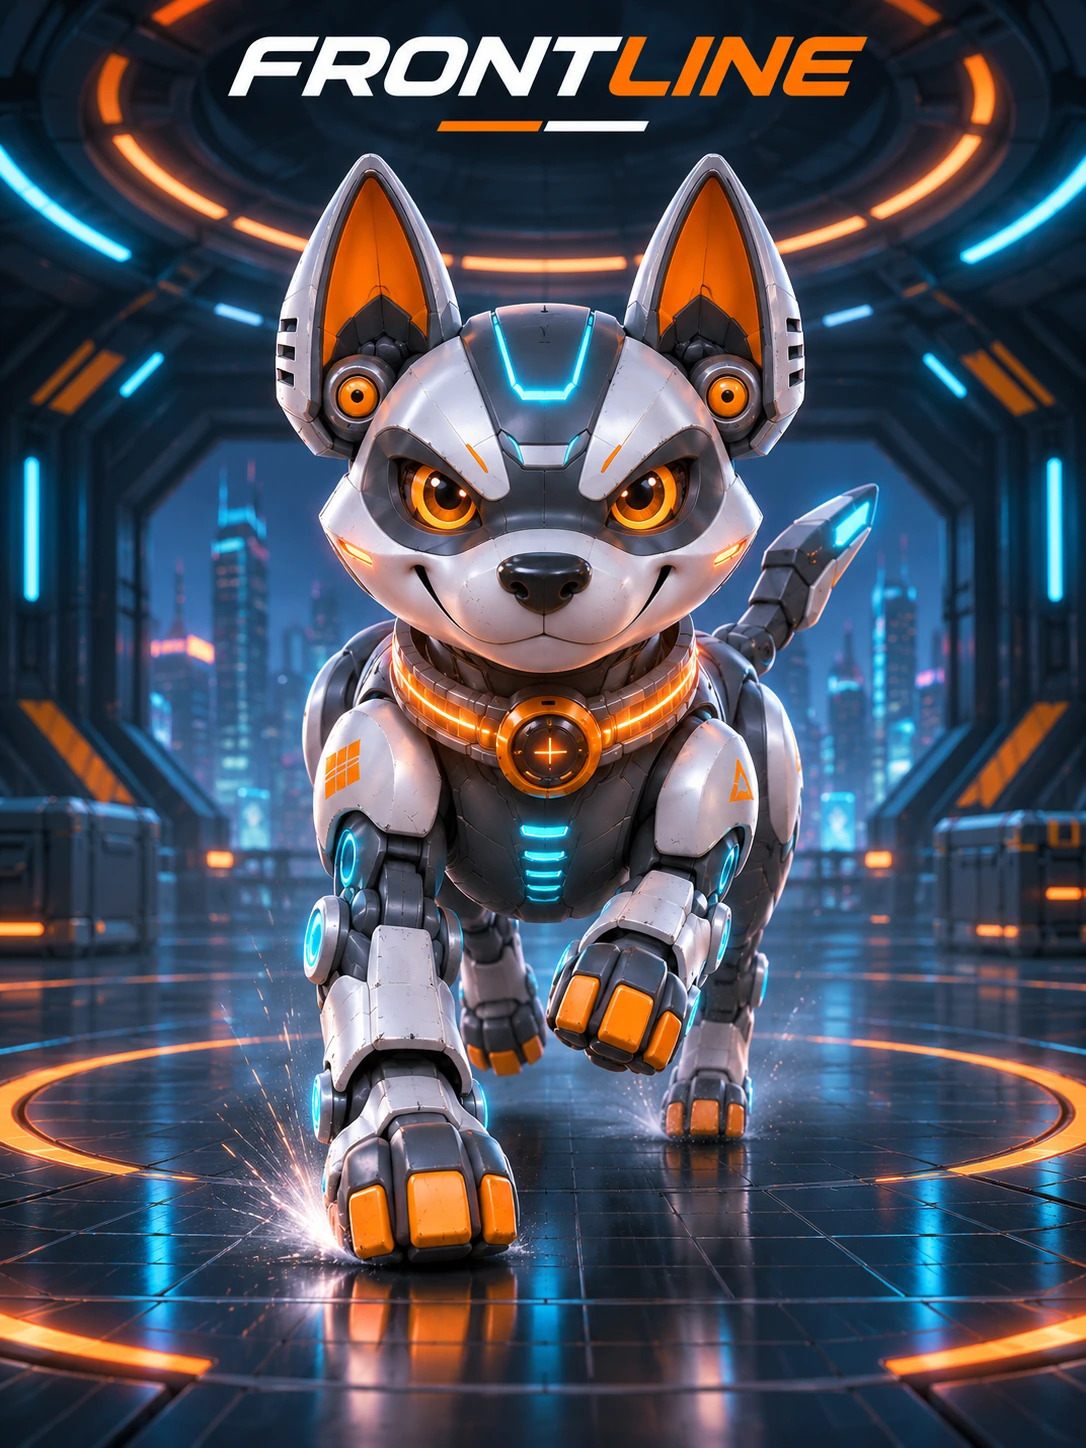
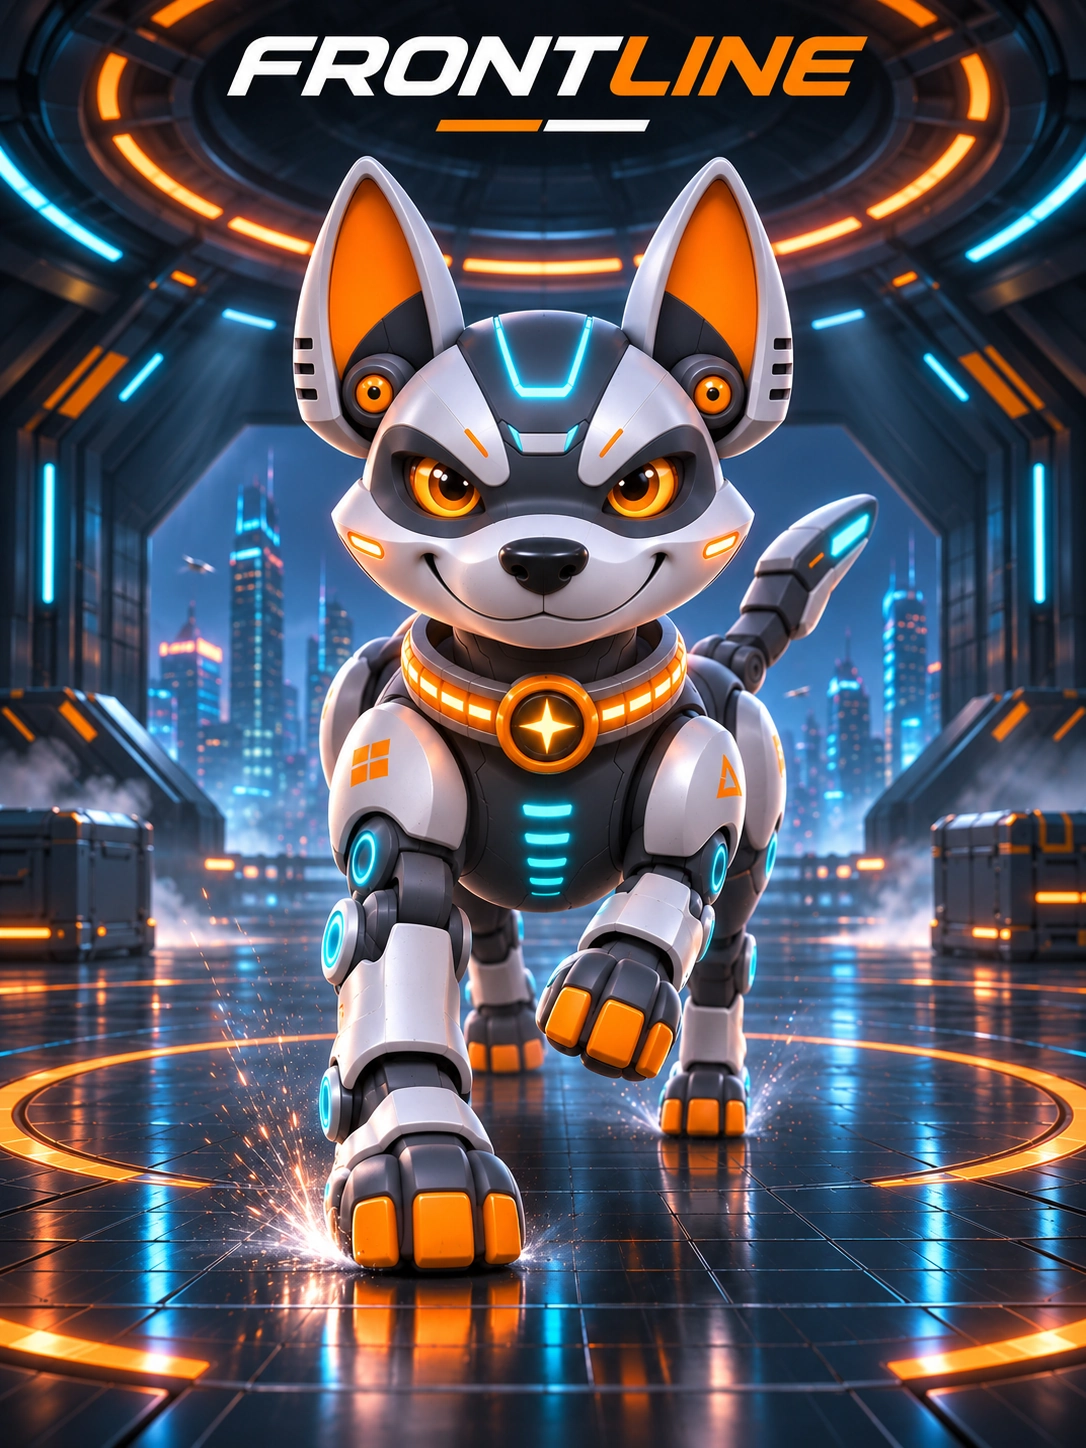
fix(work): replace NEON HOUND artwork

diff --git a/work.js b/work.js
@@ -86,8 +86,8 @@ projects.push(dafi,district2);
 projects.push({
   name:'NEON HOUND', type:'Character IP', date:'2026',
   description:'A cyberpunk mechanical hound explored through character design, diverse perspectives and future-world scenes.',
-  role:'', awards:'', image:'assets/work/neon-hound/cover-neon-rain.webp',
-  remote:'assets/work/neon-hound/cover-neon-rain.webp', neonHound:true, theme:'black'
+  role:'', awards:'', image:'assets/work/neon-hound/cover-white.webp',
+  remote:'assets/work/neon-hound/cover-white.webp', neonHound:true, theme:'black'
 });
 projects.push({
   name:'KUNLUN', type:'Product Design', date:'2022',
@@ -257,7 +257,7 @@ function openDetail(i){
   let media;
   if(p.gallery) media=p.gallery.map(src=>({type:'image',src}));
   else if(p.jingwutong) media=Array.from({length:18},(_,n)=>({type:'image',src:`assets/work/jingwutong/${n+1}.png`}));
-  else if(p.neonHound) media=Array.from({length:16},(_,n)=>({type:'image',src:`assets/work/neon-hound/${String(n+1).padStart(2,'0')}.webp`}));
+  else if(p.neonHound) media=Array.from({length:16},(_,n)=>({type:'image',src:`assets/work/neon-hound/${String(n+1).padStart(2,'0')}.${[3,7,15].includes(n+1)?'png':'webp'}`}));
   else if(p.urbanAir){
     const animated = new Set([3,6,8,9,11,14,17,20,21]);
     const base = 'assets/work/urban-air/revised/';
